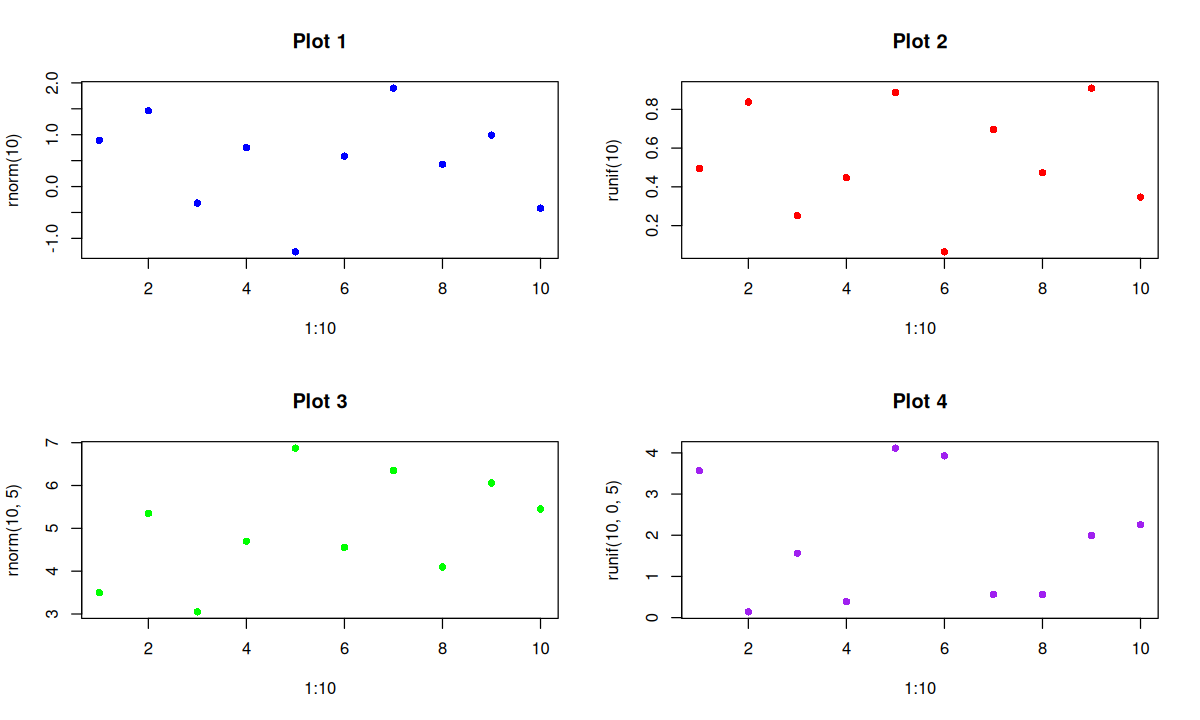
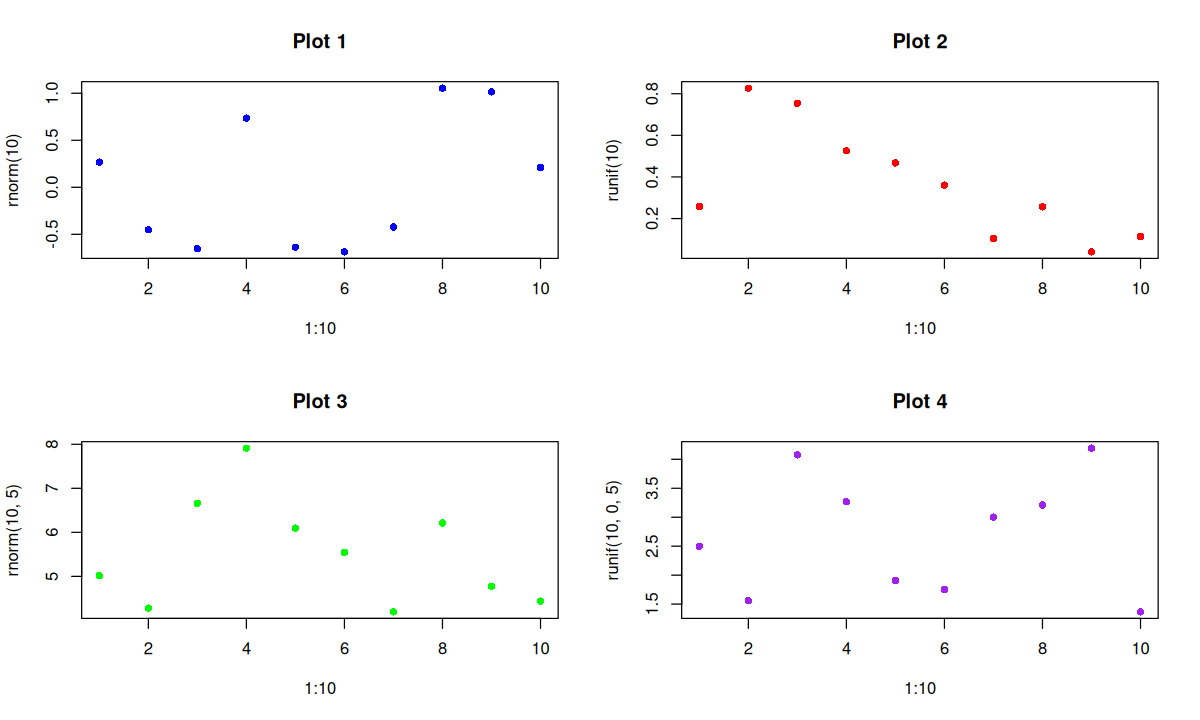
2024-11-04T23:25:28+08:00

diff --git a/content/series/R 数据科学/R Tips/index.md b/content/series/R 数据科学/R Tips/index.md
@@ -1,7 +1,7 @@
 ---
 title: "R Tips"
 date: 2024-10-06T15:14:37+08:00
-lastmod: 2024-10-29T09:36:40+08:00
+lastmod: 2024-11-04T23:25:19+08:00
 comments: true
 math: false
 weight: 99
@@ -181,6 +181,48 @@ Reduce(intersect, l)
 
 见[使用 dplyr 操作数据#tab_处理大型数据]({{< relref "/series/R 数据科学/tidyverse/使用 dplyr 操作数据#tab_处理大型数据" >}})。
 
+### 稀疏矩阵
+
+
+``` r
+library(Matrix)
+
+mat_a <- as(regMat, "sparseMatrix")       # see also `vignette("Intro2Matrix")`
+```
+
+```
+#> Error: 找不到对象'regMat'
+```
+
+``` r
+mat_b <- Matrix(regMat, sparse = TRUE)    # Thanks to Aaron for pointing this out
+```
+
+```
+#> Error: 找不到对象'regMat'
+```
+
+``` r
+identical(mat_a, mat_b)
+```
+
+```
+#> Error: 找不到对象'mat_a'
+```
+
+``` r
+mat_a
+```
+
+```
+#> Error: 找不到对象'mat_a'
+```
+
+
+### 移除变量
+
+`remove()` 或 `rm()`。
+
 ## 绘图
 
 ### 绘图布局
@@ -201,7 +243,7 @@ plot(1:10, runif(10, 0, 5), main = "Plot 4", col = "purple", pch = 16)
 par(mfrow = c(1, 1))
 ```
 
-{{< figure src="/R-figures/series/R 数据科学/R Tips/unnamed-chunk-5-1.png" group="unnamed-chunk-5" alt="unnamed-chunk-5" >}}
+{{< figure src="/R-figures/series/R 数据科学/R Tips/unnamed-chunk-6-1.png" group="unnamed-chunk-6" alt="unnamed-chunk-6" >}}
 
 使用 `mfcol` 参数会先填充列：
 
@@ -219,7 +261,7 @@ plot(1:10, runif(10, 0, 5), main = "Plot 4", col = "purple", pch = 16)
 par(mfrow = c(1, 1))
 ```
 
-{{< figure src="/R-figures/series/R 数据科学/R Tips/unnamed-chunk-6-1.png" group="unnamed-chunk-6" alt="unnamed-chunk-6" >}}
+{{< figure src="/R-figures/series/R 数据科学/R Tips/unnamed-chunk-7-1.png" group="unnamed-chunk-7" alt="unnamed-chunk-7" >}}
 
 ### 常用绘图函数
 
